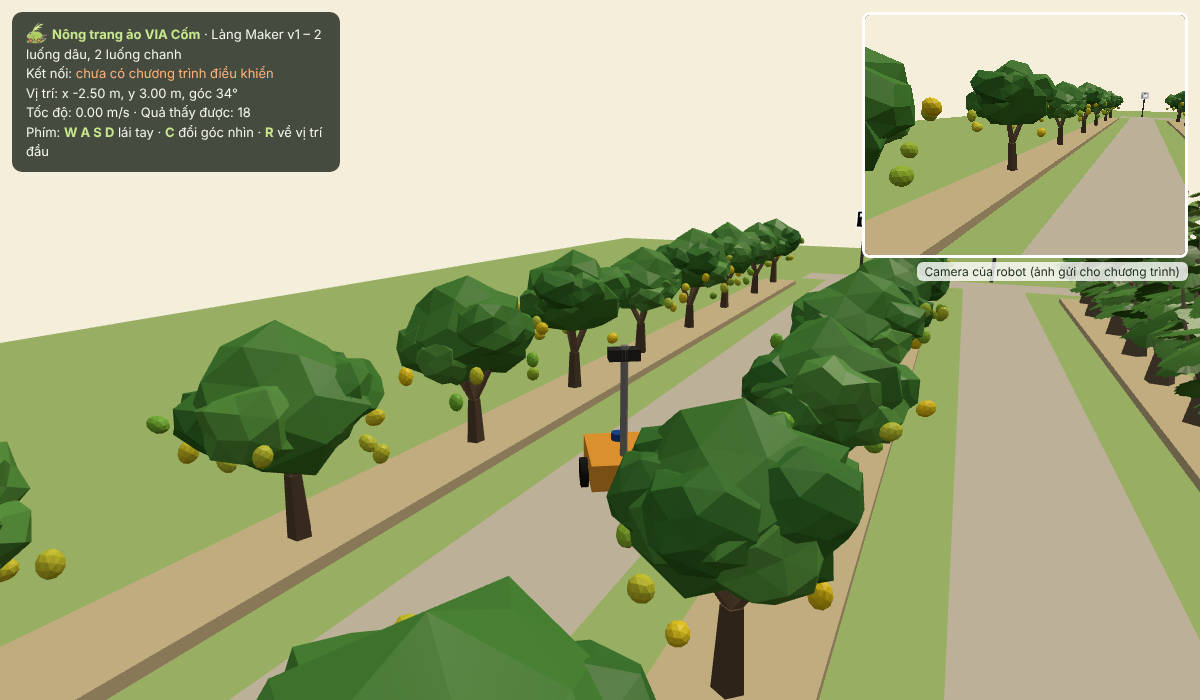
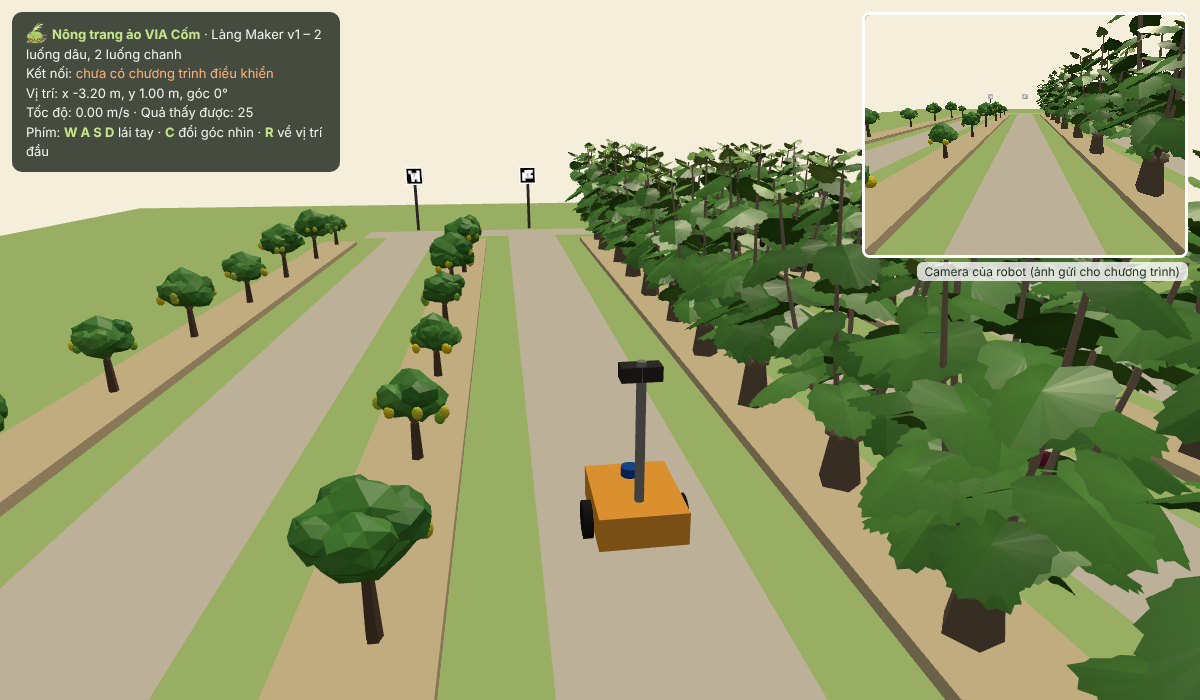
Nông trang ảo: cây chanh cao 0,4–0,7 m, quả treo trên tán
Hạ cây chanh xuống 0,4–0,7 m. Mỗi quả chọn một khối lá ngoài, treo ở mặt dưới
khối đó và có cuống nối vào tán, nên quả luôn nằm trên cây.

Claude-Session: https://claude.ai/code/session_01P1Bo89Z93YM4XeHS9e6YVy

diff --git a/sim/web/lemon.js b/sim/web/lemon.js
@@ -1,5 +1,5 @@
 // Cây chanh low-poly cho nông trang ảo VIA Cốm, cùng phong cách vườn dâu BLUESILK.
-// Cây thấp hơn cây dâu (ngọn khoảng 1,0–1,1 m so với 1,2–1,5 m của dâu): gốc ngắn,
+// Cây cao 0,4–0,7 m, thấp hơn hẳn cây dâu (1,2–1,5 m): thân ngắn,
 // vài cành chạc, tán gồm nhiều khối lá xanh sẫm bóng chồng nhau.
 // Quả chanh có độ chín từ 0 (xanh) tới 1 (vàng); màu quả đi theo độ chín để
 // AI học nhận biết quả chín bằng màu, đúng như người hái nhìn ngoài vườn.
@@ -41,39 +41,43 @@ export function leafClump(seed) {
   return g;
 }
 
-// Một gốc chanh. `r` là hàm ngẫu nhiên tất định.
-export function lemonPlant(r, { height = 1.0 } = {}) {
+// Một gốc chanh. `r` là hàm ngẫu nhiên tất định. `height` là chiều cao ngọn (m).
+// Quả luôn mọc TRÊN cây: mỗi quả treo ở mặt ngoài một khối lá, có cuống nối vào tán.
+export function lemonPlant(r, { height = 0.55 } = {}) {
   const C = LEMON_COLORS, segs = [], clumps = [], fruits = [];
-  const trunkH = 0.22 + r() * 0.08;
-  segs.push({ p0: [0, 0, 0], p1: [0, trunkH, 0], r0: 0.055, r1: 0.04, color: C.barkDark });
+  const crownR = height * (0.34 + r() * 0.04);           // bán kính tán
+  const crownY = height - crownR * 0.95;                  // tâm tán, ngọn tán chạm `height`
+  const trunkH = Math.max(0.06, crownY - crownR * 0.75);  // thân lộ dưới tán
+  segs.push({ p0: [0, 0, 0], p1: [0, trunkH, 0], r0: 0.03, r1: 0.022, color: C.barkDark });
   const nb = 3 + Math.floor(r() * 2);
-  const crownY = height * 0.62, crownR = 0.36 + r() * 0.05;
-  for (let b = 0; b < nb; b++) { // cành chạc từ đầu gốc lên giữa tán
+  for (let b = 0; b < nb; b++) { // cành chạc từ đầu thân vào trong tán
     const a = (b / nb) * Math.PI * 2 + r() * 0.6;
-    const end = [Math.cos(a) * crownR * 0.5, crownY + (r() - 0.5) * 0.1, Math.sin(a) * crownR * 0.5];
-    segs.push({ p0: [0, trunkH, 0], p1: end, r0: 0.028, r1: 0.016, color: C.bark });
+    const end = [Math.cos(a) * crownR * 0.5, crownY + (r() - 0.5) * crownR * 0.3, Math.sin(a) * crownR * 0.5];
+    segs.push({ p0: [0, trunkH, 0], p1: end, r0: 0.016, r1: 0.009, color: C.bark });
   }
-  // tán: một khối giữa và các khối quanh, hơi dẹt, đáy tán cách đất khoảng 0,35 m
-  clumps.push({ p: [0, crownY + 0.05, 0], s: crownR * 0.85, variant: 0, color: C.leaf[1] });
+  clumps.push({ p: [0, crownY + crownR * 0.1, 0], s: crownR * 0.85, variant: 0, color: C.leaf[1] });
   const nc = 6 + Math.floor(r() * 3);
   for (let k = 0; k < nc; k++) {
-    const a = (k / nc) * Math.PI * 2 + r() * 0.5, up = (r() - 0.35) * 0.5;
+    const a = (k / nc) * Math.PI * 2 + r() * 0.5, up = (r() - 0.4) * 0.6;
     const d = crownR * (0.5 + r() * 0.1);
     clumps.push({
       p: [Math.cos(a) * d, crownY + up * crownR, Math.sin(a) * d],
-      s: crownR * (0.4 + r() * 0.1), variant: 1 + (k % 2), color: C.leaf[Math.floor(r() * 3)],
+      s: crownR * (0.42 + r() * 0.1), variant: 1 + (k % 2), color: C.leaf[Math.floor(r() * 3)], a,
     });
   }
-  // quả: trên mặt tán, nghiêng về nửa dưới; mỗi quả một độ chín
-  const nf = 5 + Math.floor(r() * 5);
+  // quả: chọn một khối lá ngoài, treo ở mặt ngoài phía dưới của khối đó, có cuống ngắn
+  const outer = clumps.slice(1);
+  const nf = 4 + Math.floor(r() * 5);
   for (let j = 0; j < nf; j++) {
-    const az = r() * Math.PI * 2, el = -0.95 + r() * 1.05;
-    const rr = crownR * 1.12;
+    const c = outer[Math.floor(r() * outer.length)];
+    const az = c.a + (r() - 0.5) * 1.2, el = -0.7 + r() * 0.8; // hướng ra ngoài, hơi chúc xuống
+    const dir = [Math.cos(az) * Math.cos(el), Math.sin(el), Math.sin(az) * Math.cos(el)];
+    const fr = 0.022 + r() * 0.008;
+    const surf = c.p.map((v, i) => v + dir[i] * c.s * 0.82);      // điểm trên mặt khối lá
+    const p = [surf[0] + dir[0] * fr * 0.4, surf[1] - fr * 1.1, surf[2] + dir[2] * fr * 0.4]; // quả treo dưới điểm đó
+    segs.push({ p0: surf, p1: [p[0], p[1] + fr * 1.1, p[2]], r0: 0.003, r1: 0.003, color: C.bark }); // cuống
     const ripeness = Math.min(1, Math.max(0, r() * 1.15 - 0.05));
-    fruits.push({
-      p: [Math.cos(az) * Math.cos(el) * rr, crownY + Math.sin(el) * rr * 0.85, Math.sin(az) * Math.cos(el) * rr],
-      r: 0.034 + r() * 0.008, ripeness, tilt: r() * Math.PI,
-    });
+    fruits.push({ p, r: fr, ripeness, tilt: (r() - 0.5) * 0.5 });
   }
   return { segs, clumps, fruits, crown: { y: crownY, r: crownR } };
 }

diff --git a/sim/web/farm.js b/sim/web/farm.js
@@ -120,11 +120,11 @@ function buildFarm(map) {
       const x = x0 + (x1 - x0) * t + (r() - 0.5) * 0.08, y = y0 + (y1 - y0) * t + (r() - 0.5) * 0.08;
       if (row.crop === 'lemon') {
         // chanh: cây thấp hơn dâu, tán tròn sẫm, quả từ xanh ngả vàng theo độ chín
-        const plant = lemonPlant(r, { height: 0.95 + r() * 0.15 });
+        const plant = lemonPlant(r, { height: 0.4 + r() * 0.3 });
         const rot = r() * Math.PI * 2;
         lemons.push({ x, y, rot, plant });
-        world.obstacles.push({ x, y, r: 0.08 });
-        leavesLemon.push({ x, y, z: plant.crown.y, r: plant.crown.r * 0.95 });
+        world.obstacles.push({ x, y, r: 0.05 });
+        leavesLemon.push({ x, y, z: plant.crown.y + 0.06, r: plant.crown.r * 0.7 });
         const c = Math.cos(rot), sn = Math.sin(rot);
         for (const f of plant.fruits) { // đổi toạ độ quả từ hệ cục bộ của cây sang hệ ROS
           const [lx, ly, lz] = f.p; // three cục bộ: x, y lên, z

diff --git a/docs/SIMULATION.md b/docs/SIMULATION.md
@@ -66,11 +66,11 @@ Số đo trong `lang_maker_v1.json` là giả định, cần thay bằng số đ
 
 ### Kiểu cây dâu
 
-Cây dâu lấy kiểu dáng từ vườn dâu nuôi tằm của dự án [BLUESILK VR](https://github.com/tuanln/bluesilk-vr): gốc đốn thấp sát đất, 5–7 cành mảnh xoè như bình hoa, lá to hình tim mép răng cưa mọc so le, ngọn có lá non, vài quả dâu tím. Nền vườn dùng cùng bảng màu pastel. Mã ở `sim/web/mulberry.js`.
+Cây dâu lấy kiểu dáng từ vườn dâu nuôi tằm của dự án [BLUESILK VR](https://github.com/tuanln/bluesilk-vr): gốc đốn thấp sát đất, 5–7 cành mảnh xoè như bình hoa, lá to hình tim mép răng cưa mọc so le, ngọn có lá non, vài quả dâu tím. Nền vườn dùng cùng bảng màu pastel. Mã ở `sim/web/mulberry.js`. Cả vườn dâu chỉ vẽ bằng 4 lớp hình lặp lại (cành, u gốc, lá, quả), nên máy yếu vẫn chạy được.
 
 ### Kiểu cây chanh và độ chín
 
-Cây chanh cùng phong cách, thấp hơn cây dâu (ngọn khoảng 1,0–1,1 m so với 1,2–1,5 m): gốc ngắn, vài cành chạc, tán tròn gồm nhiều khối lá xanh sẫm. Mỗi quả có **độ chín** từ 0 tới 1, màu đi từ xanh non, qua xanh ngả vàng, tới vàng chín. Quả có độ chín từ 0,6 trở lên được gắn nhãn `lemon_ripe`, dưới mức đó là `lemon_unripe`; nhãn cũng gửi kèm con số độ chín để AI học phân biệt bằng màu. Mã ở `sim/web/lemon.js`. Cả vườn dâu chỉ vẽ bằng 4 lớp hình lặp lại (cành, u gốc, lá, quả), nên máy yếu vẫn chạy được.
+Cây chanh cùng phong cách, cao 0,4–0,7 m (cây dâu 1,2–1,5 m): thân ngắn, vài cành chạc, tán tròn gồm nhiều khối lá xanh sẫm. Quả luôn mọc trên cây: mỗi quả treo ở mặt ngoài một khối lá, có cuống nối vào tán. Mỗi quả có **độ chín** từ 0 tới 1, màu đi từ xanh non, qua xanh ngả vàng, tới vàng chín. Quả có độ chín từ 0,6 trở lên được gắn nhãn `lemon_ripe`, dưới mức đó là `lemon_unripe`; nhãn cũng gửi kèm con số độ chín để AI học phân biệt bằng màu. Mã ở `sim/web/lemon.js`.
 
 ## Nối với ROS 2
 
